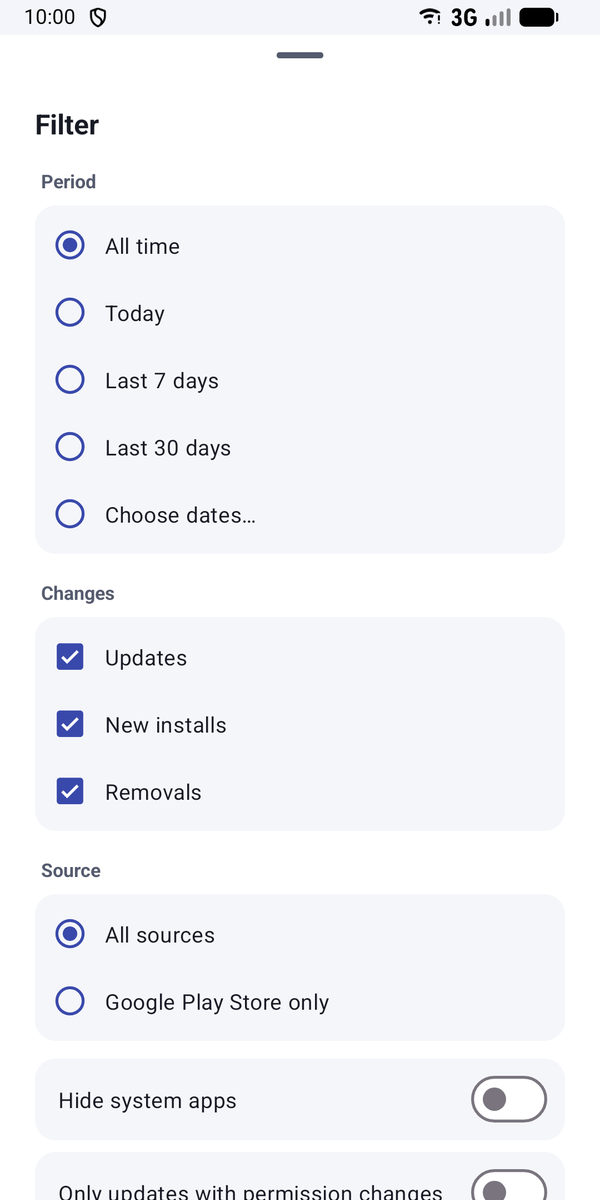
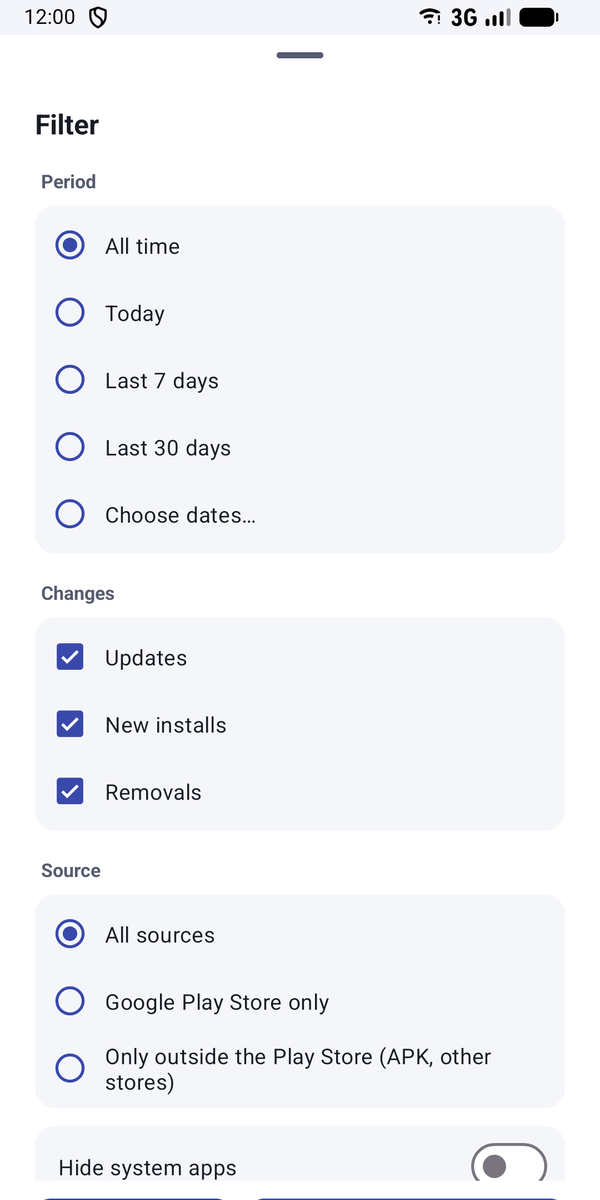
Permissions overview, outside-Play flag, storage line and new screenshots

diff --git a/index.html b/index.html
@@ -4,7 +4,7 @@
   <meta charset="utf-8">
   <meta name="viewport" content="width=device-width, initial-scale=1">
   <title>UpdateMonitor – Android App Update History | Nordic Appworks</title>
-  <meta name="description" content="UpdateMonitor records every app update, install and removal on your Android device, including permission changes. No internet permission, no ads, no tracking.">
+  <meta name="description" content="UpdateMonitor records every app update, install and removal on your Android device, shows which apps can use your camera, location and more, and flags apps from outside the Play Store. No internet permission, no ads, no tracking.">
   <link rel="canonical" href="https://updatemonitor.app/">
   <link rel="icon" href="favicon.ico" sizes="any">
   <link rel="icon" href="favicon.png" type="image/png">
@@ -24,7 +24,7 @@
     "name": "UpdateMonitor",
     "operatingSystem": "Android 8.0 or later",
     "applicationCategory": "UtilitiesApplication",
-    "description": "Records every app update, install and removal on your Android device, including permission changes. Works fully offline.",
+    "description": "Records every app update, install and removal on your Android device, shows which apps can use your camera, location and more, and flags apps installed outside the Play Store. Works fully offline.",
     "url": "https://updatemonitor.app/",
     "offers": { "@type": "Offer", "price": "0", "priceCurrency": "EUR" },
     "publisher": { "@type": "Organization", "name": "Nordic Appworks" }
@@ -44,6 +44,9 @@
   <symbol id="i-widget" viewBox="0 0 24 24"><path d="M13,13v8h8v-8h-8zM3,21h8v-8H3v8zM3,3v8h8V3H3zM16.66,1.69L11,7.34 16.66,13l5.66,-5.66 -5.66,-5.65z"/></symbol>
   <symbol id="i-block" viewBox="0 0 24 24"><path d="M12,2C6.48,2 2,6.48 2,12s4.48,10 10,10 10,-4.48 10,-10S17.52,2 12,2zM4,12c0,-4.42 3.58,-8 8,-8 1.85,0 3.55,0.63 4.9,1.69L5.69,16.9C4.63,15.55 4,13.85 4,12zM12,20c-1.85,0 -3.55,-0.63 -4.9,-1.69L18.31,7.1C19.37,8.45 20,10.15 20,12c0,4.42 -3.58,8 -8,8z"/></symbol>
   <symbol id="i-play" viewBox="0 0 24 24"><path d="M8,5v14l11,-7z"/></symbol>
+  <symbol id="i-shield" viewBox="0 0 24 24"><path d="M12,1L3,5v6c0,5.55 3.84,10.74 9,12 5.16,-1.26 9,-6.45 9,-12L21,5l-9,-4zM12,11.99h7c-0.53,4.12 -3.28,7.79 -7,8.94L12,12L5,12L5,6.3l7,-3.11v8.8z"/></symbol>
+  <symbol id="i-warning" viewBox="0 0 24 24"><path d="M1,21h22L12,2 1,21zM13,18h-2v-2h2v2zM13,14h-2v-4h2v4z"/></symbol>
+  <symbol id="i-storage" viewBox="0 0 24 24"><path d="M2,20h20v-4L2,16v4zM4,17h2v2L4,19v-2zM2,4v4h20L22,4L2,4zM6,7L4,7L4,5h2v2zM2,14h20v-4L2,10v4zM4,11h2v2L4,13v-2z"/></symbol>
 </svg>
 
 <header>
@@ -60,7 +63,7 @@
     <span class="badge">Coming soon to Google Play</span>
     <h1>UpdateMonitor – Android App Update History</h1>
     <p class="tagline">Know exactly which apps changed on your phone, and when.</p>
-    <p>UpdateMonitor keeps a clear history of every app update, new install and removal on your Android device – with the old and new version, the date and time, and which permissions an app gained or lost. Everything stays on your device: the app has no internet permission at all.</p>
+    <p>UpdateMonitor keeps a clear history of every app update, new install and removal on your Android device – with the old and new version, the date and time, and which permissions an app gained or lost. It also shows which apps can use your camera, location, microphone and more, and flags apps that didn't come from the Play Store. Everything stays on your device: the app has no internet permission at all.</p>
   </section>
 
   <section class="card">
@@ -69,7 +72,7 @@
       <div class="feature">
         <svg class="icon"><use href="#i-history"/></svg>
         <h3>Update history</h3>
-        <p>Every update per app, from which version to which version, with the exact date and time.</p>
+        <p>One clear line per app, grouped by day: from which version to which, with the app's own icon and the time. Older updates fold out with one tap.</p>
       </div>
       <div class="feature">
         <svg class="icon"><use href="#i-apps"/></svg>
@@ -79,12 +82,27 @@
       <div class="feature">
         <svg class="icon"><use href="#i-lock"/></svg>
         <h3>Permission changes</h3>
-        <p>See when an update adds access to your location, camera, microphone, contacts and more.</p>
+        <p>A small shield shows when an update adds or removes access to your location, camera, microphone, contacts and more.</p>
+      </div>
+      <div class="feature">
+        <svg class="icon"><use href="#i-shield"/></svg>
+        <h3>Who can access what</h3>
+        <p>For each kind of access – camera, location, microphone and more – see which apps actually have it, and since when. Special access such as accessibility is listed separately.</p>
+      </div>
+      <div class="feature">
+        <svg class="icon"><use href="#i-warning"/></svg>
+        <h3>Outside the Play Store</h3>
+        <p>Apps installed from an APK file or another store are flagged with their source, with their own filter and optional notification.</p>
+      </div>
+      <div class="feature">
+        <svg class="icon"><use href="#i-storage"/></svg>
+        <h3>Storage at a glance</h3>
+        <p>Used and free space in one line, and how much it changed this week. Turns yellow when your phone is almost full. Can be hidden.</p>
       </div>
       <div class="feature">
         <svg class="icon"><use href="#i-bell"/></svg>
         <h3>Notifications</h3>
-        <p>Optional and off by default: a short summary of all changes, Play Store updates and/or Android system updates.</p>
+        <p>Optional and off by default: a short summary of all changes, or only Play Store updates, Android system updates and/or apps installed outside the Play Store.</p>
       </div>
       <div class="feature">
         <svg class="icon"><use href="#i-calendar"/></svg>
@@ -118,12 +136,12 @@
     <h2>Screenshots</h2>
     <div class="screens">
       <figure>
-        <picture><source srcset="img/screen-history.webp" type="image/webp"><img src="img/screen-history.png" width="600" height="1200" loading="lazy" alt="UpdateMonitor history with updates, installs and removals"></picture>
-        <figcaption>Updates, installs and removals</figcaption>
+        <picture><source srcset="img/screen-history.webp" type="image/webp"><img src="img/screen-history.png" width="600" height="1200" loading="lazy" alt="UpdateMonitor history: one line per app, grouped by day, with permission and source signals"></picture>
+        <figcaption>Every change, grouped by day</figcaption>
       </figure>
       <figure>
-        <picture><source srcset="img/screen-permissions.webp" type="image/webp"><img src="img/screen-permissions.png" width="600" height="1200" loading="lazy" alt="Updates that added new permissions"></picture>
-        <figcaption>Permission changes per update</figcaption>
+        <picture><source srcset="img/screen-permissions.webp" type="image/webp"><img src="img/screen-permissions.png" width="600" height="1200" loading="lazy" alt="Permissions tab: how many apps can use location, camera, microphone and more"></picture>
+        <figcaption>Who can access what</figcaption>
       </figure>
       <figure>
         <picture><source srcset="img/screen-calendar.webp" type="image/webp"><img src="img/screen-calendar.png" width="600" height="1200" loading="lazy" alt="Activity calendar with a monthly heatmap"></picture>
@@ -163,19 +181,18 @@
 
   <section class="card">
     <h2>Why permission changes matter</h2>
-    <p>Most app updates are harmless. But sometimes an update quietly asks for more – your location, your contacts or your microphone. UpdateMonitor shows that right in the history:</p>
-    <p><span class="permission-example">New permissions: Access precise location only in the foreground, Read your contacts</span></p>
-    <p>You can filter the list to show only updates with permission changes, and – if you turn notifications on – get told when it happens.</p>
+    <p>Most app updates are harmless. But sometimes an update quietly asks for more – your location, your contacts or your microphone. UpdateMonitor marks that right in the history with a small shield and the number of new permissions; open the app to see exactly which ones.</p>
+    <p>The <strong>Permissions</strong> tab turns it around: pick camera, location or microphone and see every app that has that access, with the newest ones marked. You can also filter the history to show only updates with permission changes, and – if you turn notifications on – get told when it happens.</p>
   </section>
 
   <section class="card">
     <h2>Useful for IT support</h2>
-    <p>"It worked yesterday – what changed?" With UpdateMonitor the answer is one tap away. Export the history as a PDF or CSV and share it with your helpdesk. Apps installed through Google Play, a company portal or another installer are shown with their source.</p>
+    <p>"It worked yesterday – what changed?" With UpdateMonitor the answer is one tap away. Export the history as a PDF or CSV and share it with your helpdesk. Apps installed through Google Play, a company portal or another installer are shown with their source, and anything from outside the Play Store stands out.</p>
   </section>
 
   <section class="card">
-    <h2>Supported languages</h2>
-    <p>English and Norwegian (bokmål).</p>
+    <h2>Languages and accessibility</h2>
+    <p>English and Norwegian (bokmål). Works with TalkBack and large text sizes.</p>
   </section>
 
   <section class="card play-card">
